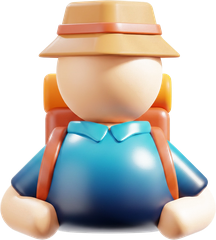
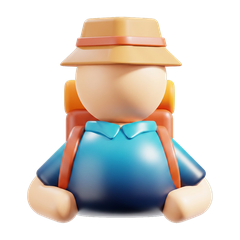
Ikkala 3D ikonkani (yuk, yolovchi) bir xil olchamdagi kvadrat maydonga moslashtirdim va yolovchi ikonkasidagi ortiqcha oq fon halosini tozaladim

diff --git a/index.html b/index.html
@@ -722,8 +722,8 @@ body.view-sender .header{background:var(--app-bg)!important}
 }
 .uni-action-icon svg{width:44px;height:44px;display:block}
 .uni-action-icon .cta-icon svg{width:44px;height:44px}
-.uni-action-icon--img{width:auto;height:46px}
-.uni-action-icon-img{height:100%;width:auto;display:block;object-fit:contain}
+.uni-action-icon--img{width:46px;height:46px}
+.uni-action-icon-img{width:100%;height:100%;display:block;object-fit:contain}
 .uni-action-label{font-size:11.5px;font-weight:700;text-align:center;line-height:1.2;white-space:normal;letter-spacing:-.01em}
 
 /* Faol rejim chipi — o'rtada, boshqa ikki tugma chetga chiqqach ko'rinadi */
